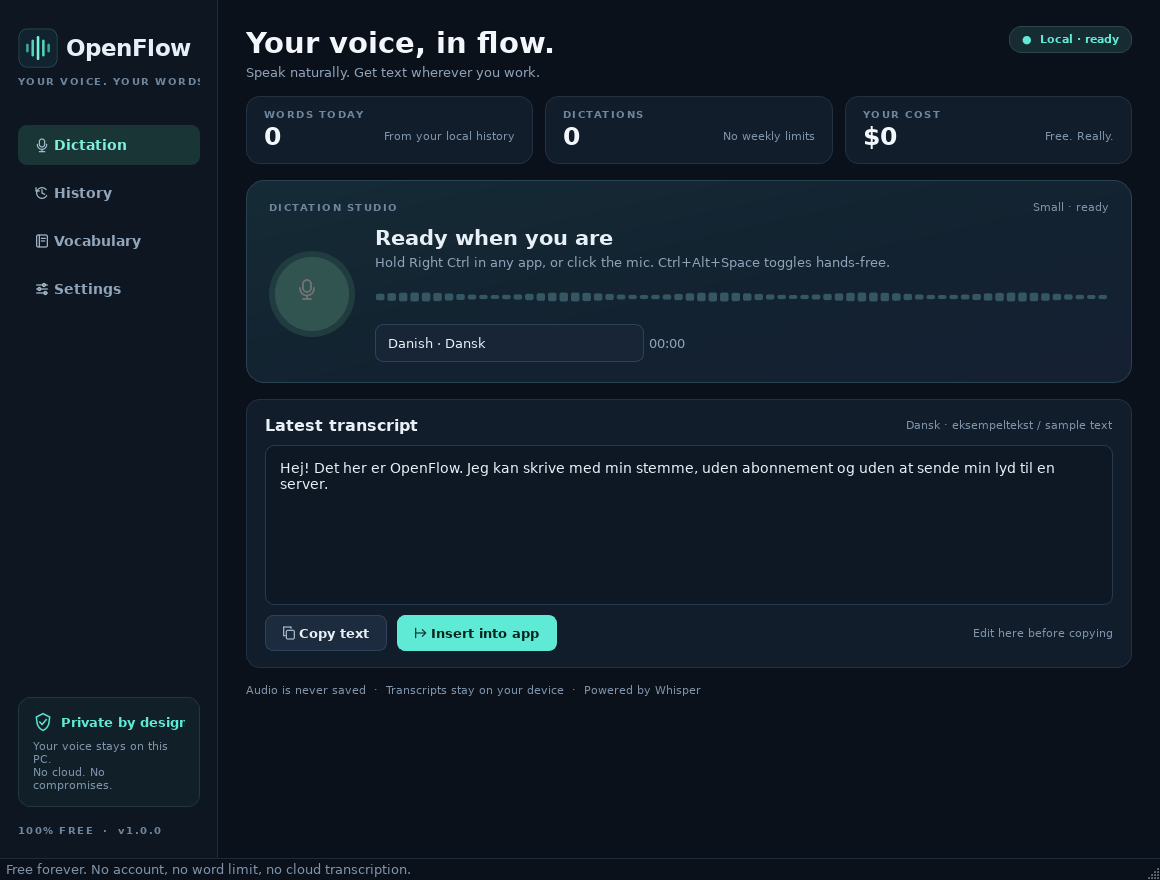
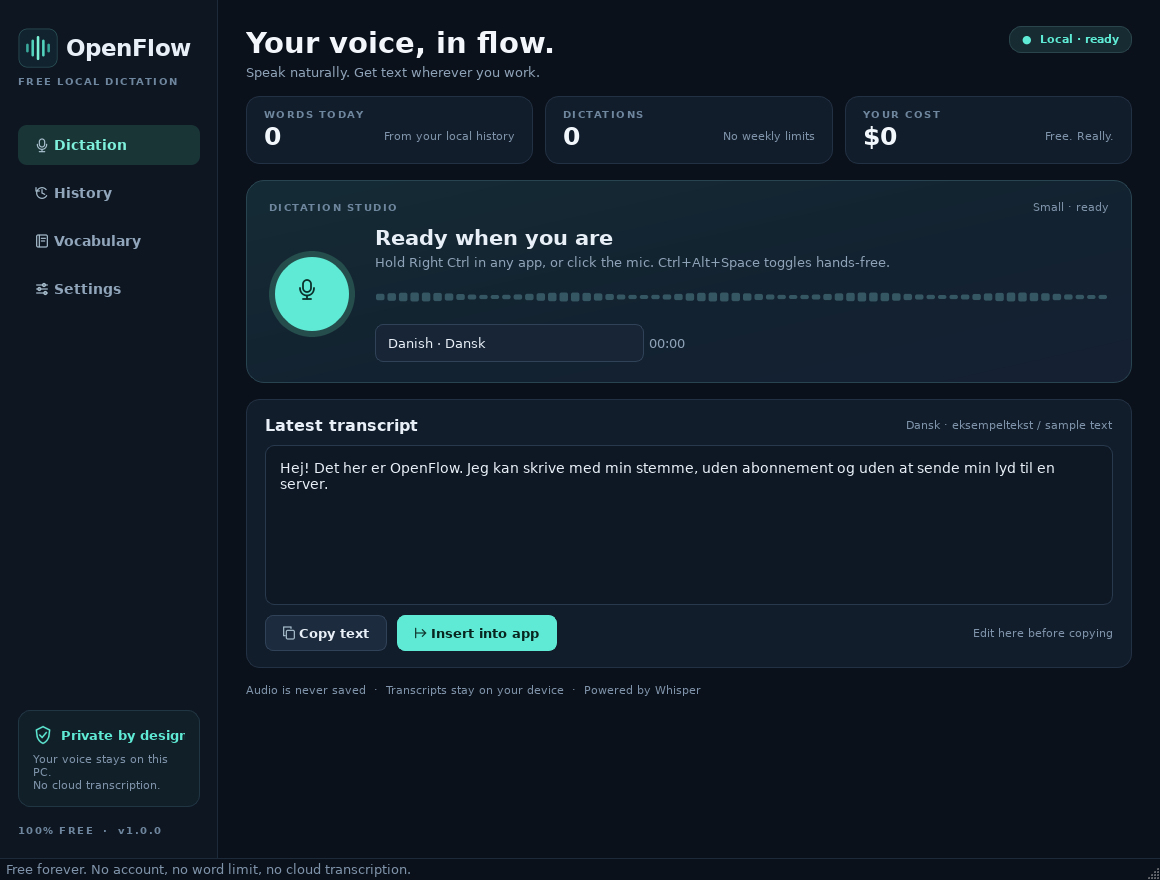
Add Danish guide and final interface preview

Changed region(s): [[0.031, 0.7977, 0.1552, 0.9205], [0.2172, 0.2761, 0.3103, 0.3989]]

diff --git a/docs/DA.md b/docs/DA.md
@@ -1,0 +1,33 @@
+# OpenFlow på dansk
+
+OpenFlow er gratis, lokal diktering til Windows 10/11 (64-bit). Dansk er standardsprog, og du kan vælge mellem 100 Whisper-sprog. Ingen konto, abonnement, API-nøgle eller ordgrænse.
+
+## Kom i gang
+
+1. Hent `OpenFlow.exe` fra GitHub-releasen og læg den i en mappe, du ejer.
+2. Start appen. Klik **Download model** for at hente den anbefalede Small-model (~181 MB). Det kræver internet én gang.
+3. Tillad mikrofonen i **Windows Indstillinger → Privatliv og sikkerhed → Mikrofon**.
+4. Klik i det program, hvor teksten skal indsættes.
+5. Hold **højre Ctrl**, tal, og slip. OpenFlow skriver teksten lokalt.
+
+Alternativt: klik mikrofonknappen, tal, og klik igen for at stoppe. **Ctrl+Alt+Space** slår håndfri diktering til/fra. **Ctrl+Alt+Escape** annullerer.
+
+## Personligt ordforråd
+
+Under **Vocabulary** kan du skrive erstatninger som:
+
+```text
+aarhus => Aarhus
+anton => Anton
+open flow => OpenFlow
+```
+
+Under **Settings** kan du slå fjernelse af tøven til (`øh`, `øhm`, `um`, `uh`) og vælge talte tegnsætningskommandoer som `punktum`, `komma`, `spørgsmålstegn` og `nyt afsnit`.
+
+## Privatliv
+
+Lyd behandles lokalt i hukommelsen og gemmes ikke som lydfil. Transskriptioner gemmes kun lokalt, hvis historik er slået til. Modeldownload sker fra det officielle Whisper.cpp-repository; ingen lyd eller tekst sendes til en server. Udklipsholderen bruges midlertidigt til at indsætte tekst, og andre udklipsholderprogrammer kan opbevare kopieret tekst.
+
+## Bemærk
+
+Appen er et selvstændigt, gratis alternativ inspireret af Wispr Flow-arbejdsgangen — ikke en officiel eller identisk kopi. Den indeholder ikke cloud-LLM-omskrivning eller skærmkontekst. Den er ikke kode-signeret; Windows SmartScreen kan derfor vise en advarsel. Kontrollér kildekode og SHA-256 før du vælger **Mere info → Kør alligevel**.

diff --git a/README.md b/README.md
@@ -4,6 +4,8 @@
 
 OpenFlow is an independent, open-source alternative inspired by the Wispr Flow dictation workflow. It is not affiliated with Wispr or OpenAI. It uses OpenAI's open Whisper models through `whisper.cpp`, entirely on your CPU.
 
+[Dansk vejledning](docs/DA.md)
+
 ![OpenFlow desktop interface](docs/screenshot.png)
 
 *Interface preview with sample Danish text. Your own transcripts are produced locally from your microphone.*
